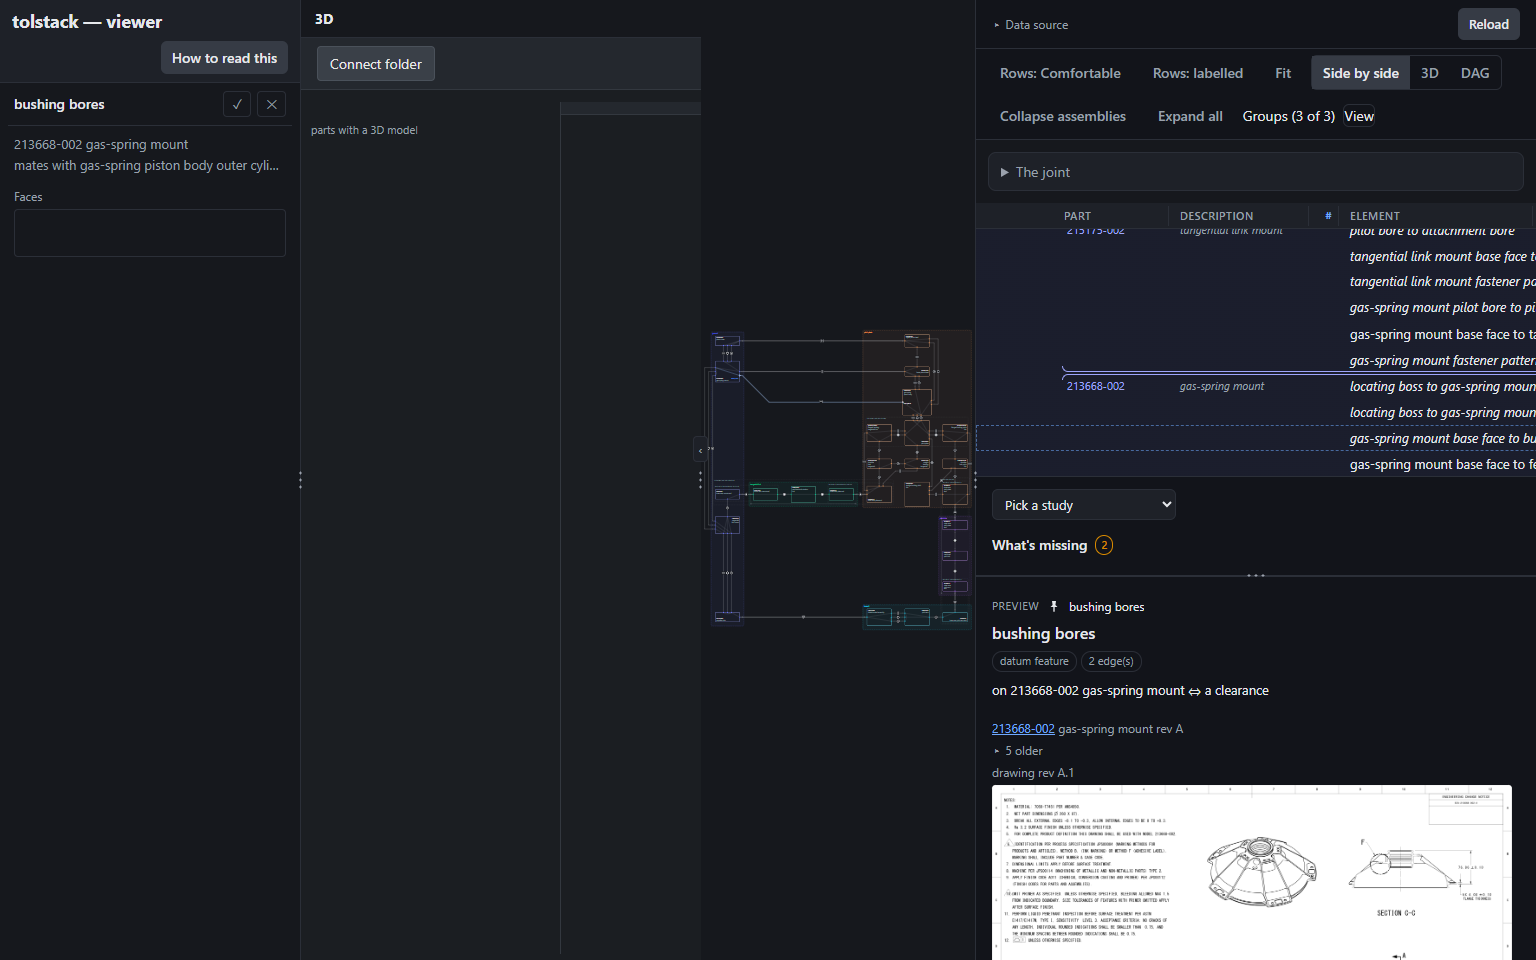
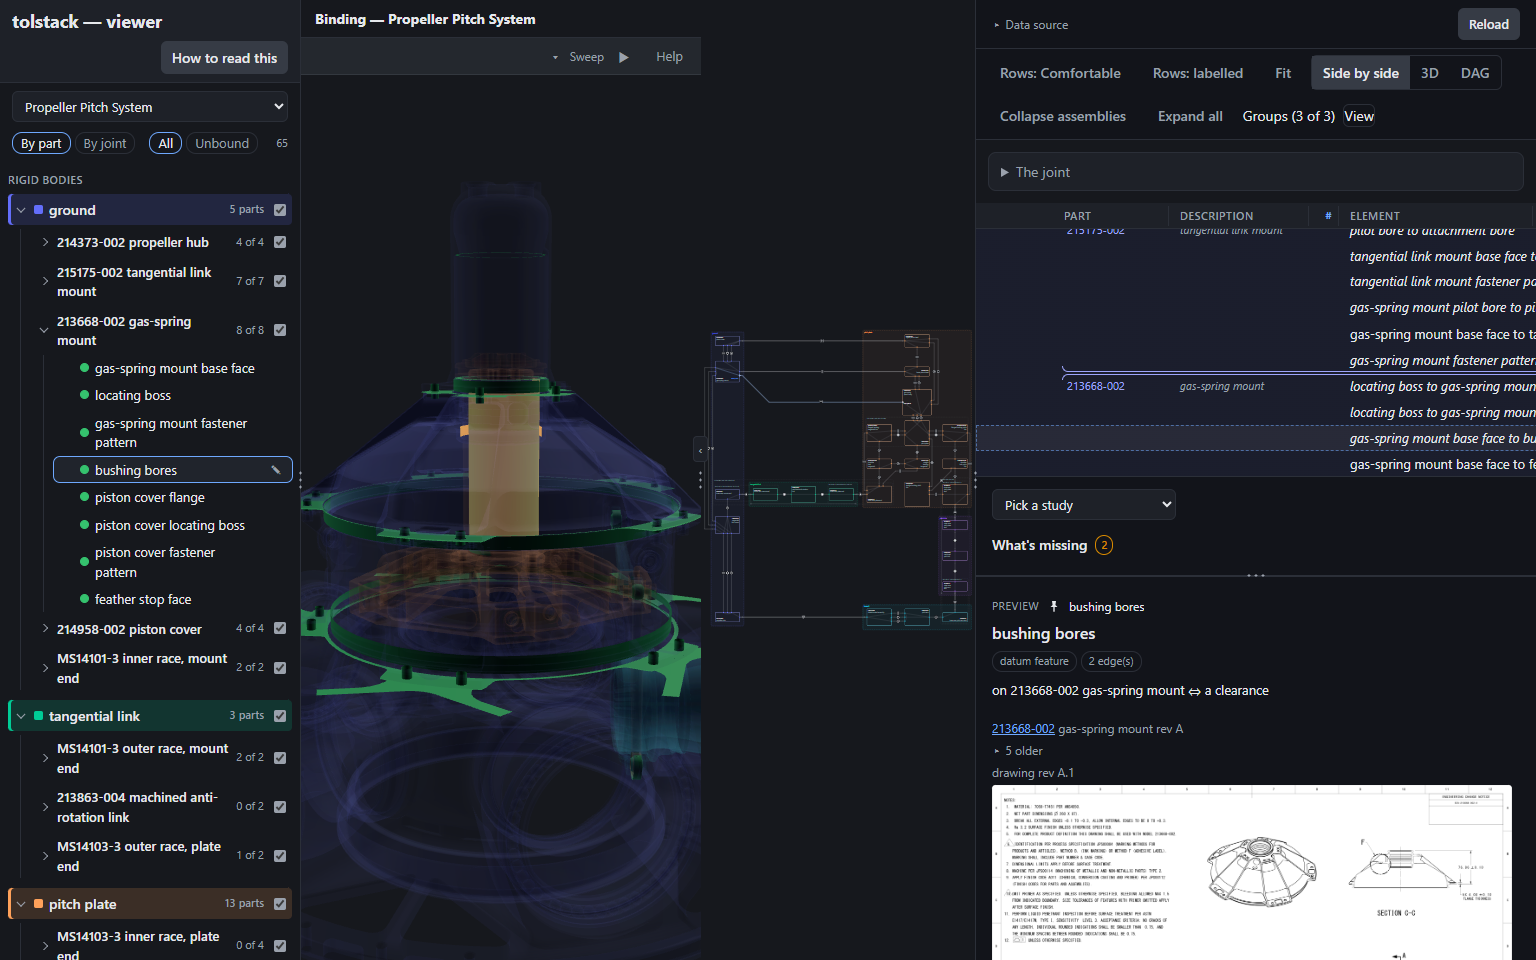
A double-click on a feature row is read from each click's own stamp: the pane's work after the first click held the second back past the window

diff --git a/apps/viewer/topology_app.js b/apps/viewer/topology_app.js
@@ -1070,11 +1070,15 @@
   //
   // A second click on the same row soon after opens its form. Read here, not
   // as a dblclick: the first click repaints the tree, so the second lands on
-  // a new row element and the browser's dblclick never fires.
-  function onNavFeature(featureId) {
+  // a new row element, and Chrome counts clicks per element -- no dblclick.
+  // Timed by each click's own stamp: the pane shares this thread, and its
+  // work after the first click can hold the second click's handler back for
+  // longer than a double-click lasts (measured: pressed 1 ms apart, handled
+  // 617 ms apart).
+  function onNavFeature(featureId, event) {
     var model = currentModel();
     if (!model || !model.feature(featureId)) return;
-    var now = typeof performance !== "undefined" ? performance.now() : Date.now();
+    var now = (event && event.timeStamp) || (typeof performance !== "undefined" ? performance.now() : Date.now());
     lastFeatureTouched = { fid: featureId, at: now };
     var again = lastFeatureClick && lastFeatureClick.fid === featureId && now - lastFeatureClick.at < VA.NAV_DOUBLE_CLICK_MS;
     lastFeatureClick = again ? null : { fid: featureId, at: now };
@@ -2363,8 +2367,10 @@
         var row = hit ? hit.closest('div.navtree__row[data-nav-kind="feature"]') : null;
         if (row && row.isConnected) { openFeatureForm(row.getAttribute("data-nav-id")); return; }
         // The row the first click selected, repainted since: the feature it was.
-        var now = typeof performance !== "undefined" ? performance.now() : Date.now();
-        if (lastFeatureTouched && now - lastFeatureTouched.at < 3 * VA.NAV_DOUBLE_CLICK_MS) {
+        // Timed by the event's own stamp: the pane shares this thread, and its
+        // work after the first click can hold this handler back for seconds.
+        var at = event.timeStamp || (typeof performance !== "undefined" ? performance.now() : Date.now());
+        if (lastFeatureTouched && at - lastFeatureTouched.at < 3 * VA.NAV_DOUBLE_CLICK_MS) {
           openFeatureForm(lastFeatureTouched.fid);
         }
       });

diff --git a/apps/viewer/views/nav.js b/apps/viewer/views/nav.js
@@ -583,7 +583,9 @@
     row.appendChild(name);
     var note = sharedNote(model, fid);
     if (note) row.appendChild(note);
-    activatable(row, function () { if (handlers.onFeature) handlers.onFeature(fid); });
+    // The click itself is handed on: its timeStamp is when the reader
+    // clicked, which a second click's double-click read needs (topology_app.js).
+    activatable(row, function (event) { if (handlers.onFeature) handlers.onFeature(fid, event); });
     hoverable(row, "feature", fid, handlers);
     // Its form (VA.renderFeatureForm): the pencil, on a hovered or selected
     // row; Enter on the selected row; a second click (topology_app.js).
